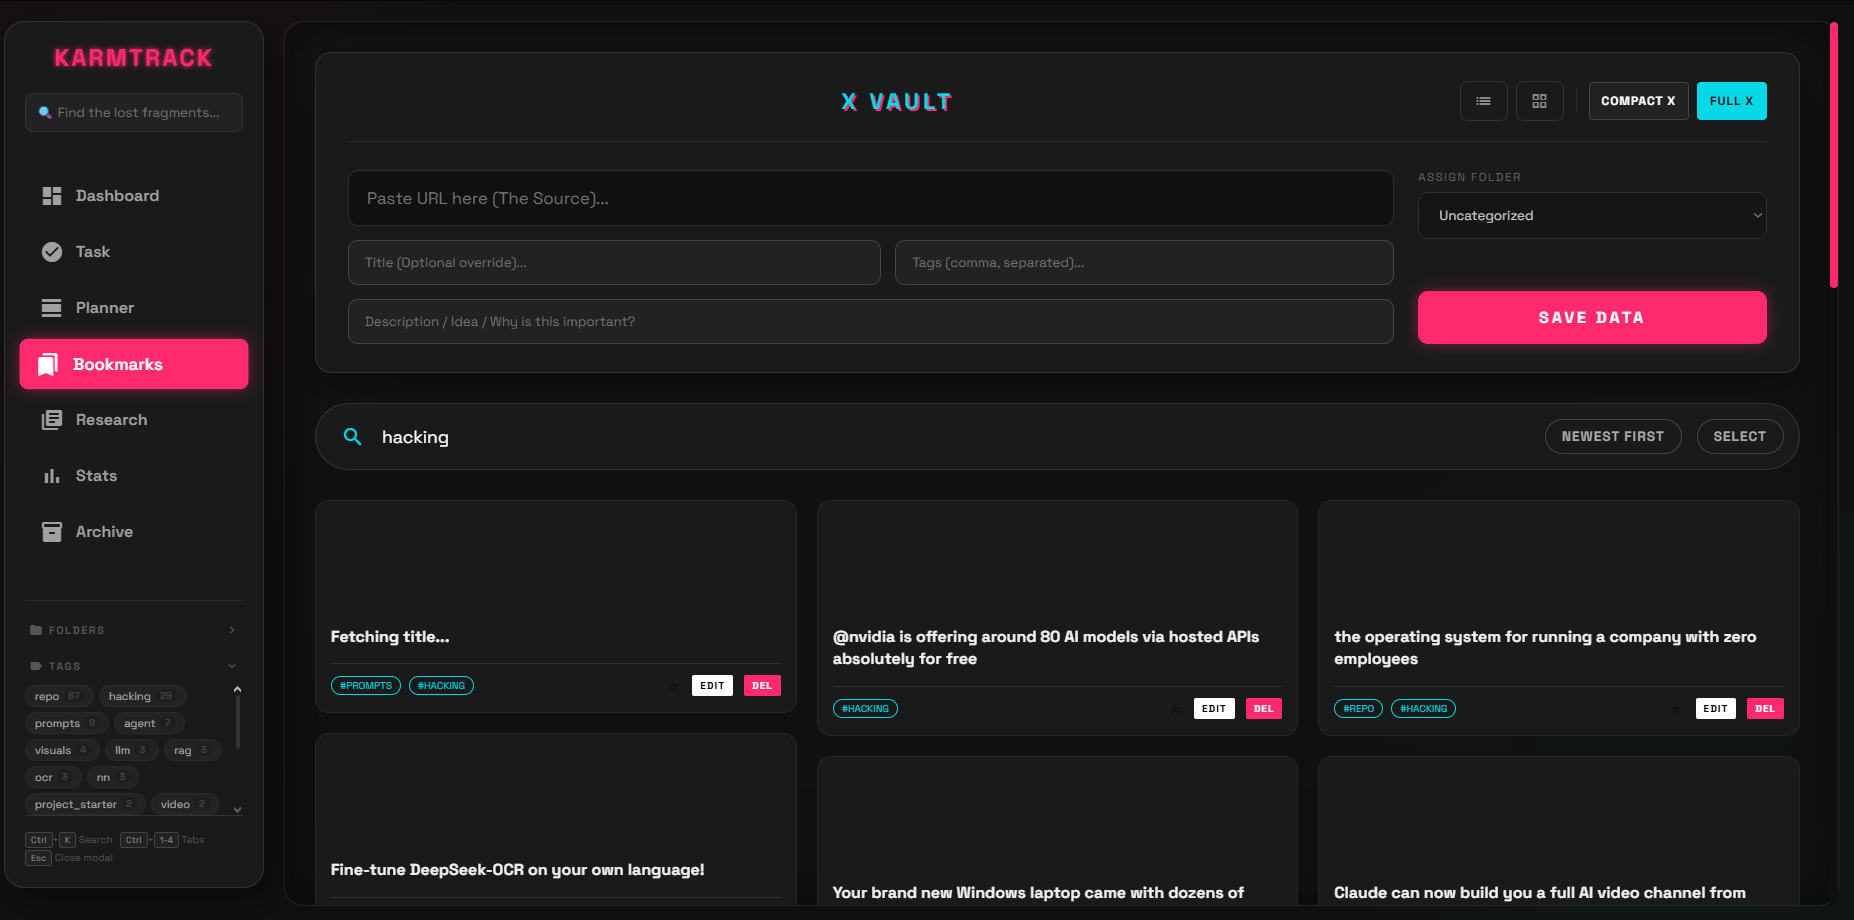
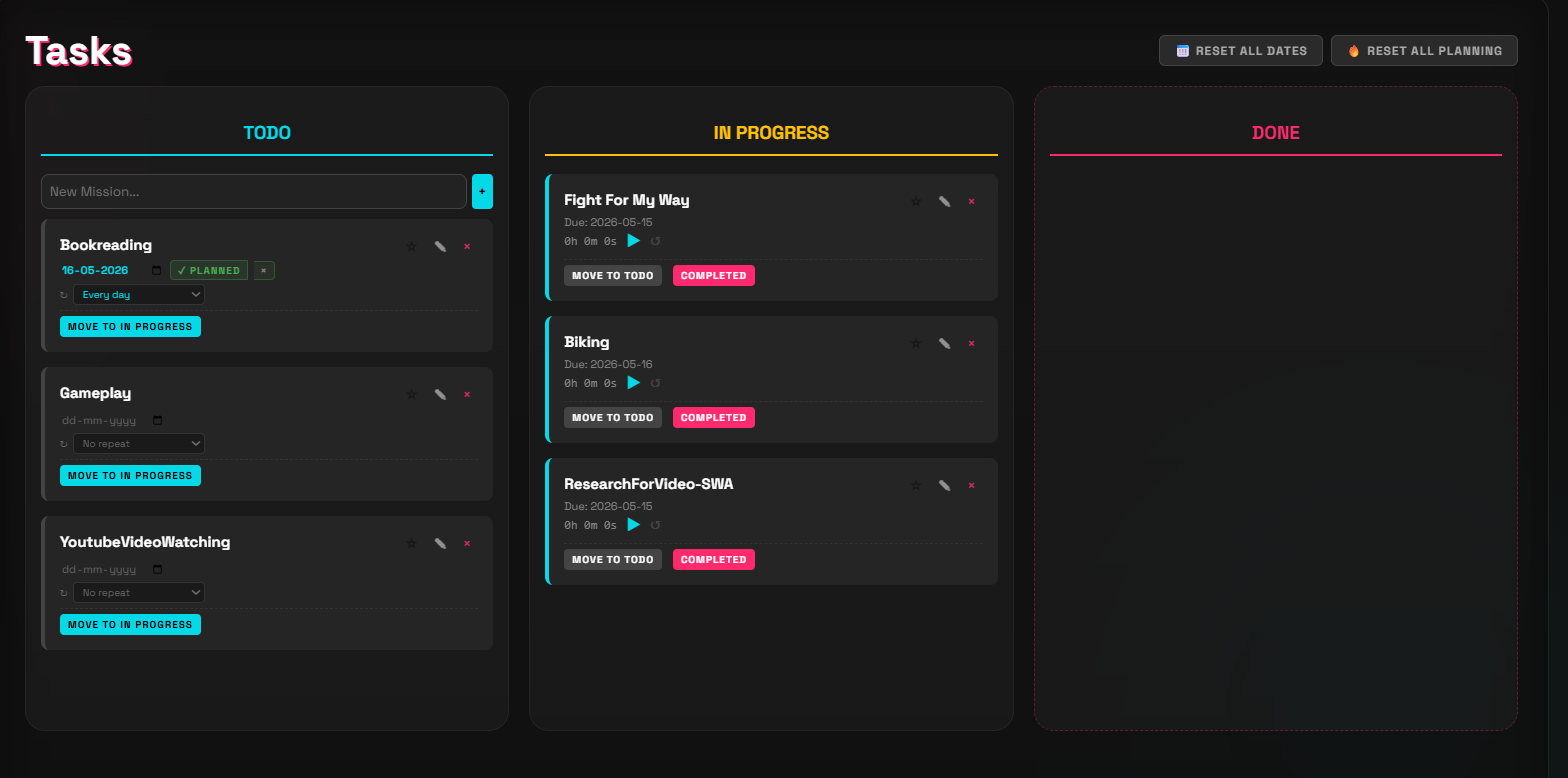
add few UI functionlity (tag loading efficient, midnight time for planning and more..)

diff --git a/public/app.js b/public/app.js
@@ -1025,6 +1025,9 @@ function renderBookmarks() {
         folderContainer.className = currentBmView === 'grid' ? 'bm-grid-layout' : 'bm-list-layout';
         mainContainer.appendChild(folderContainer);
         renderBmPage(folderContainer, displayData, 0);
+        if (currentBmView === 'grid' && xPreviewMode === 'full') {
+            renderTwitterWidgets(folderContainer);
+        }
     } else {
         // Grouped View
         const groupedByFolder = displayData.reduce((acc, bm) => {
@@ -1371,8 +1374,10 @@ async function loadTags() {
             label.className = 'sidebar-tag-label';
             label.textContent = tag.name;
             label.onclick = () => {
+                currentSearchTerm = tag.name.toLowerCase();
                 const filterInput = document.querySelector('#view-bookmarks input[onkeyup]');
-                if (filterInput) { filterInput.value = tag.name; filterBookmarksLocally(tag.name); }
+                if (filterInput) filterInput.value = tag.name;
+                switchTab('bookmarks');
             };
 
             const count = document.createElement('span');
@@ -1602,7 +1607,7 @@ function renderTasks(tasks, plannedSet = new Set(), plannedBlockMap = {}) {
         }
 
         let dateHtml = '';
-        if (task.status === 'todo') {
+        if (task.status === 'todo' && !task.repeat) {
             const safeTitleForAttr = String(task.title || '').replace(/"/g, '&quot;').replace(/'/g, '&#39;');
             if (task.due_date) {
                 const planKey = `${task.due_date}::${task.title}`;
@@ -1621,7 +1626,7 @@ function renderTasks(tasks, plannedSet = new Set(), plannedBlockMap = {}) {
             } else {
                 dateHtml = `<input type="date" onclick="event.stopPropagation()" onchange="updateTaskDate(${task.id}, this.value)" style="font-size:11px; border:none; background:transparent; color:#666; cursor:pointer;">`;
             }
-        } else if (task.due_date) {
+        } else if (!task.repeat && task.due_date) {
             dateHtml = `<div style="font-size:11px; color:#888;">Due: ${task.due_date}</div>`;
         }
 
@@ -1952,11 +1957,14 @@ async function loadDashboardPlannerPreview() {
     blocksEl.innerHTML = blocks.map(block => {
         const startMin = timeToMinutes(block.start_time);
         const endMin = timeToMinutes(block.end_time);
-        const isPast = endMin < nowMins;
-        const isActive = startMin <= nowMins && nowMins < endMin;
+        const crossesMidnight = endMin < startMin;
+        const effectiveEnd = crossesMidnight ? 1440 : endMin;
+        const isPast = effectiveEnd < nowMins && !crossesMidnight;
+        const isActive = crossesMidnight ? nowMins >= startMin : (startMin <= nowMins && nowMins < endMin);
+        const timeLabel = crossesMidnight ? `${minutesToDisplay(startMin)}–${minutesToDisplay(endMin)} (+1)` : `${minutesToDisplay(startMin)}–${minutesToDisplay(endMin)}`;
         return `<div class="dash-planner-block-row${isActive ? ' active' : ''}${isPast ? ' past' : ''}" onclick="switchTab('planner')">
             <span class="dash-planner-block-dot" style="background:${block.color};"></span>
-            <span class="dash-planner-block-time">${minutesToDisplay(startMin)}–${minutesToDisplay(endMin)}</span>
+            <span class="dash-planner-block-time">${timeLabel}</span>
             <span class="dash-planner-block-label">${escapeHtml(block.label)}</span>
             ${isActive ? '<span class="dash-planner-active-badge">NOW</span>' : ''}
         </div>`;
@@ -2639,7 +2647,8 @@ function renderPlannerTimeline() {
     plannerBlocks.forEach(block => {
         const startMin = timeToMinutes(block.start_time);
         const endMin = timeToMinutes(block.end_time);
-        const durationMin = endMin - startMin;
+        const crossesMidnight = endMin < startMin;
+        const durationMin = crossesMidnight ? (1440 - startMin) : (endMin - startMin);
         if (durationMin <= 0) return;
 
         const el = document.createElement('div');
@@ -2655,7 +2664,7 @@ function renderPlannerTimeline() {
         const fill = document.createElement('div');
         fill.className = 'planner-block-fill';
         fill.dataset.start = startMin;
-        fill.dataset.end = endMin;
+        fill.dataset.end = crossesMidnight ? 1440 : endMin;
         fill.style.background = block.color + '44';
         el.appendChild(fill);
 
@@ -2665,7 +2674,9 @@ function renderPlannerTimeline() {
 
         const timeEl = document.createElement('div');
         timeEl.className = 'planner-block-time';
-        timeEl.textContent = `${minutesToDisplay(startMin)} – ${minutesToDisplay(endMin)}`;
+        timeEl.textContent = crossesMidnight
+            ? `${minutesToDisplay(startMin)} – ${minutesToDisplay(endMin)} (+1)`
+            : `${minutesToDisplay(startMin)} – ${minutesToDisplay(endMin)}`;
 
         el.appendChild(lbl);
         el.appendChild(timeEl);
@@ -2752,7 +2763,7 @@ async function savePlannerBlock() {
     const start_time = getTimePickerValue('pb-start');
     const end_time = getTimePickerValue('pb-end');
     if (!label || !start_time || !end_time) { showToast('Fill in all fields', 'error'); return; }
-    if (start_time >= end_time) { showToast('End must be after start', 'error'); return; }
+    if (start_time === end_time) { showToast('End must be different from start', 'error'); return; }
 
     const payload = { date: plannerCurrentDate, start_time, end_time, label, color: plannerSelectedColor };
 